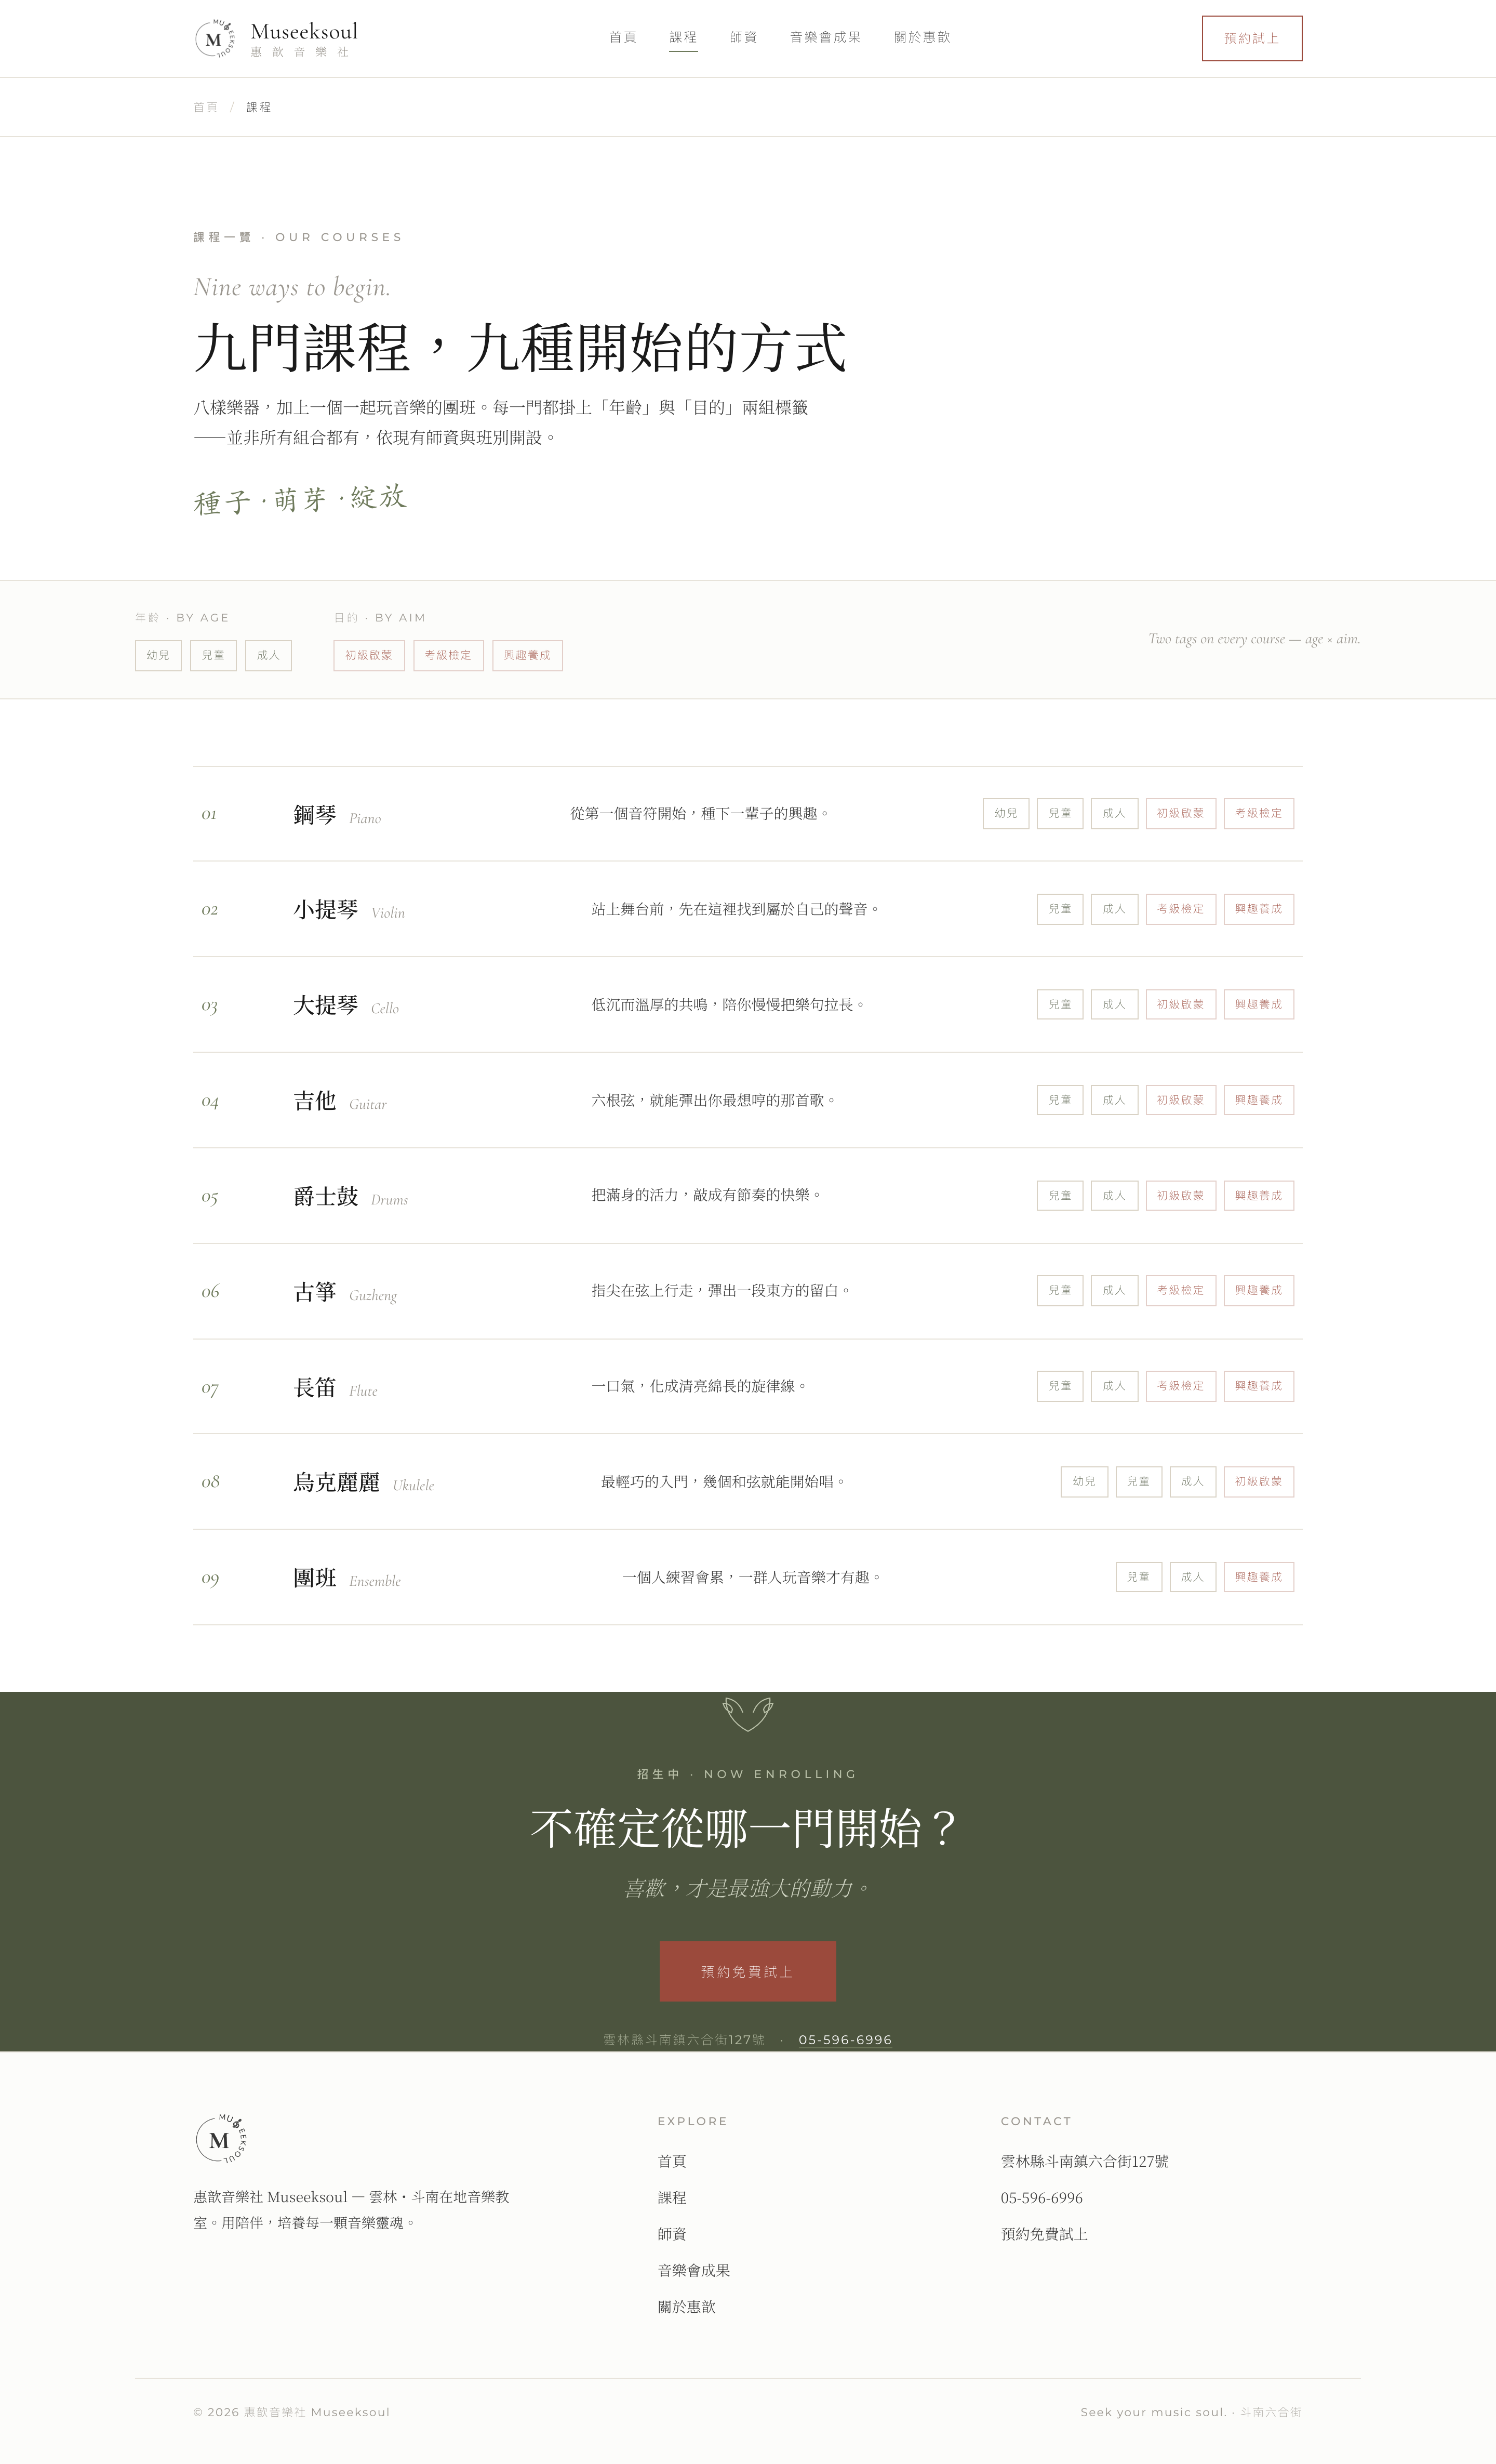
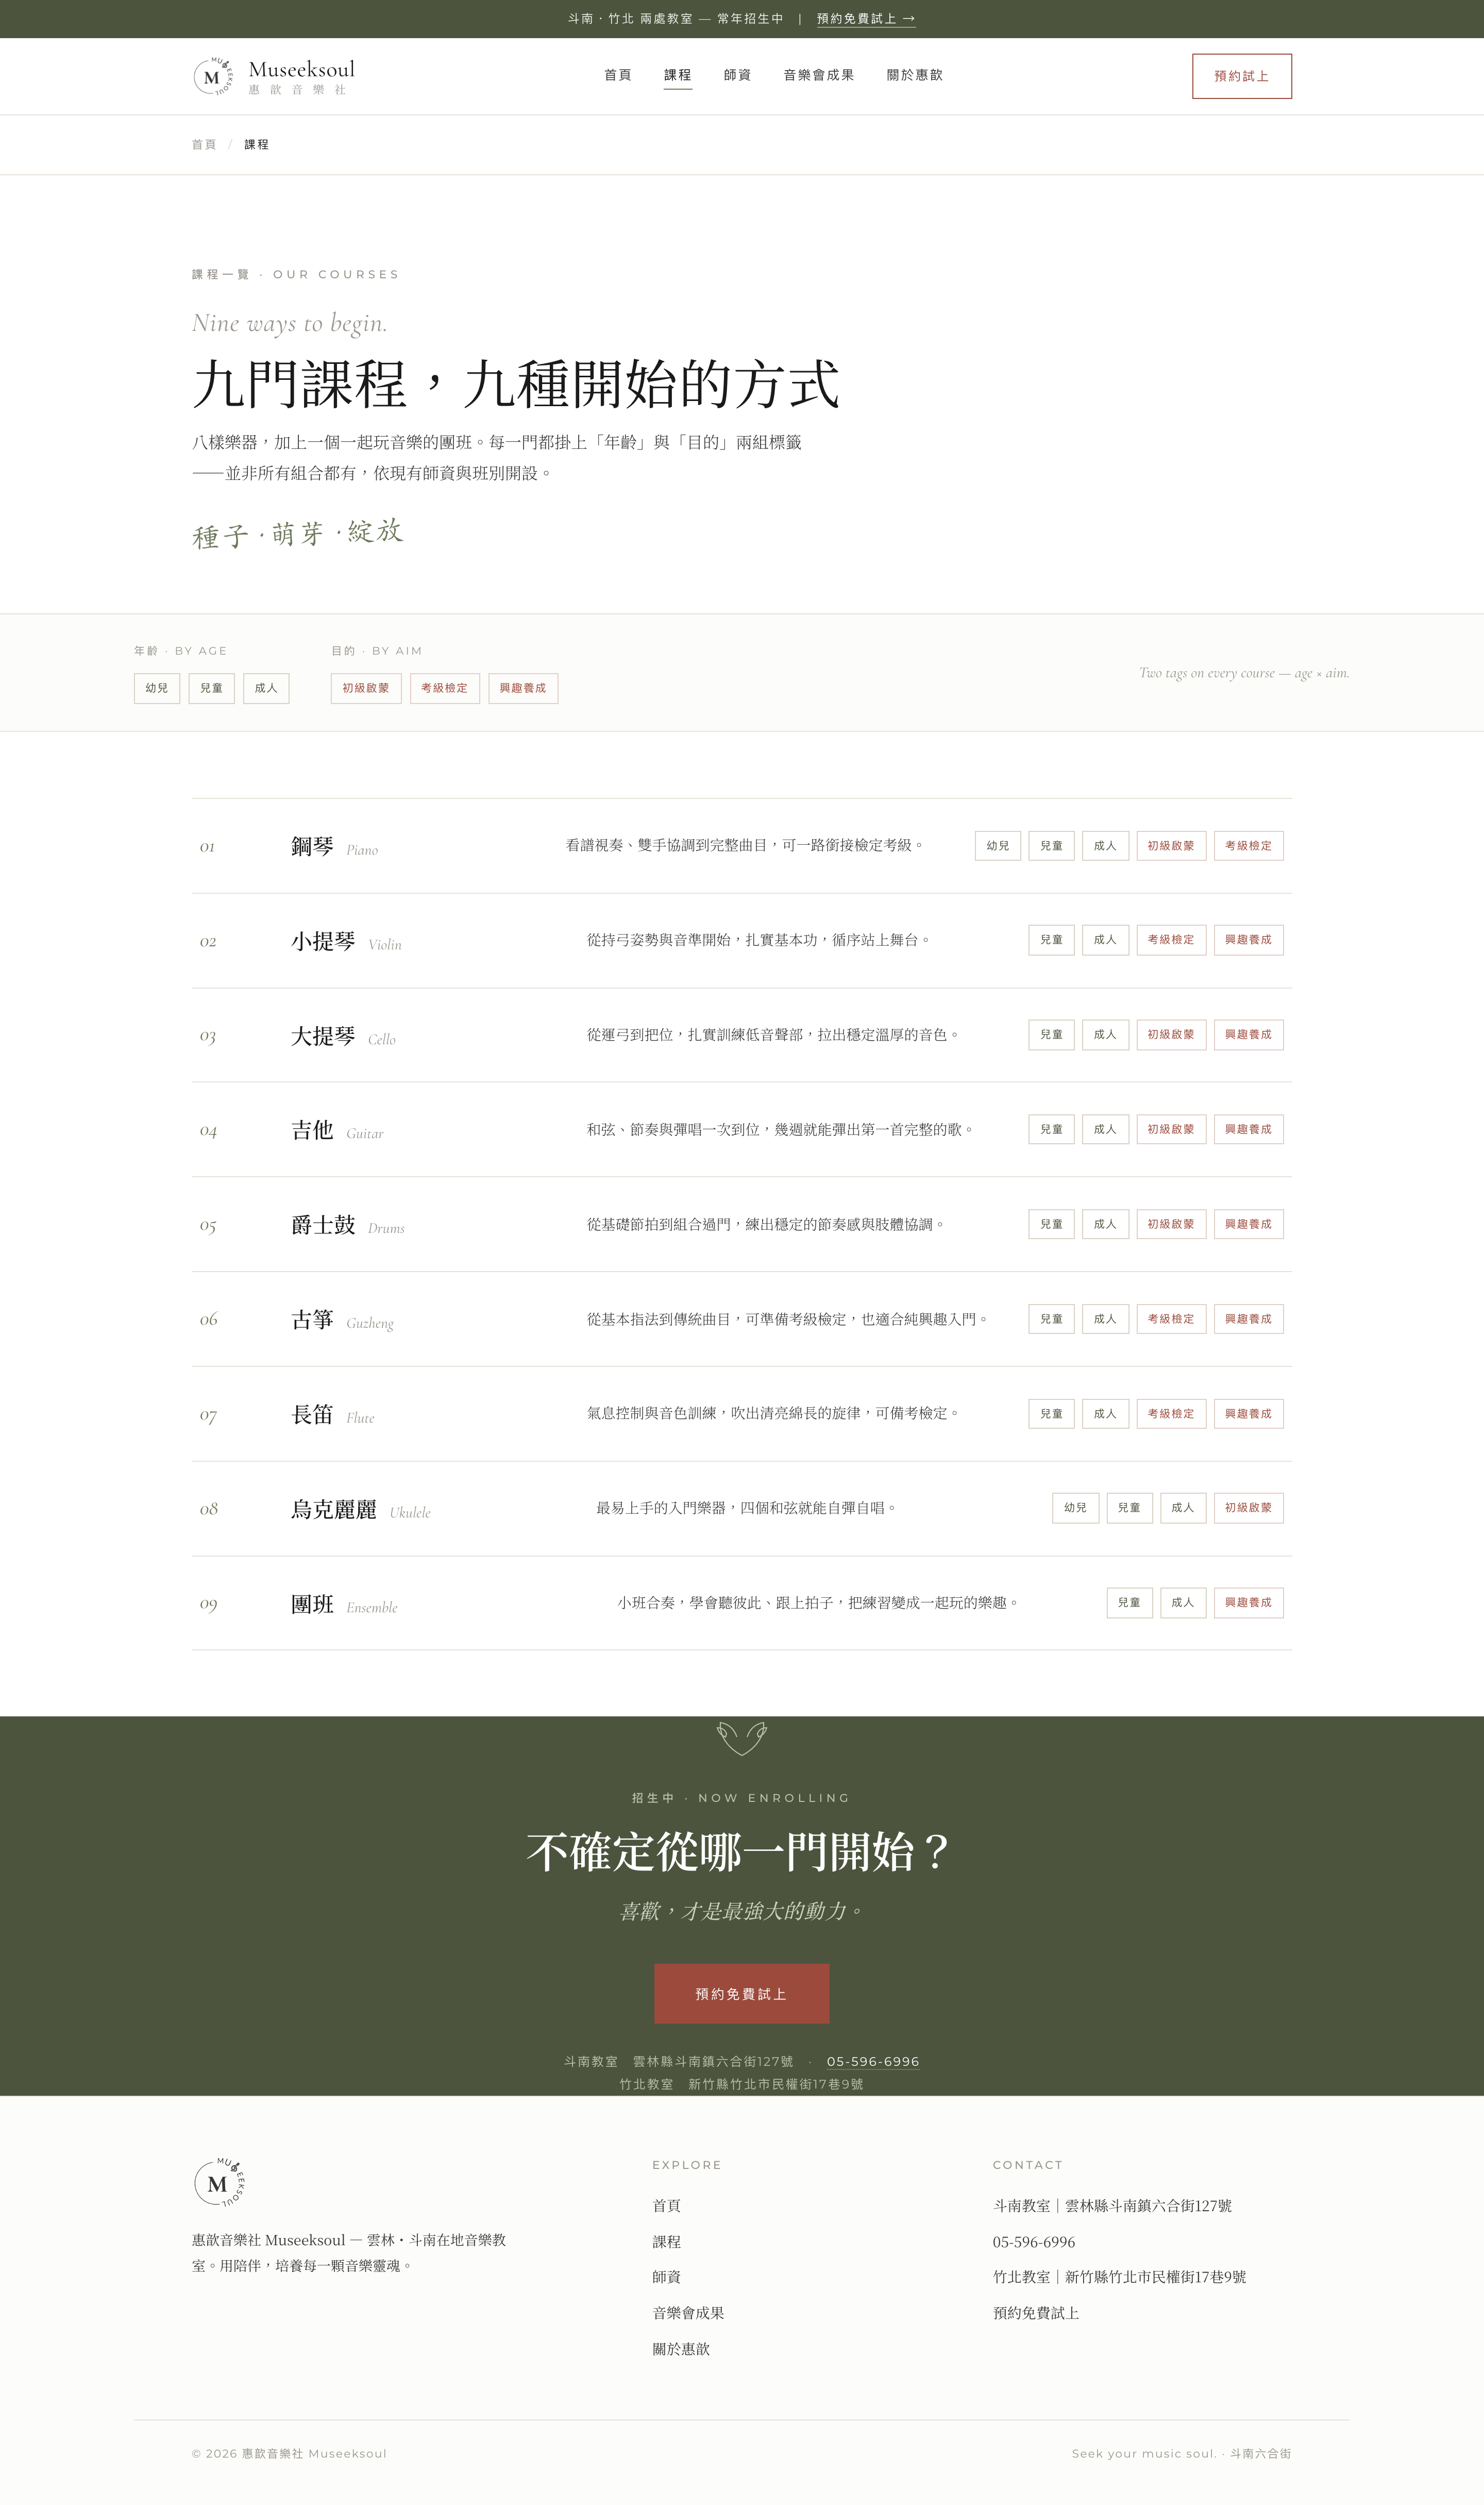
POC 商業強化樣板：image 概念頁套上招生條/賣點行/能力導向文案/兩處教室/字重（保留情感 hero 與信任帶）

diff --git a/concepts/image/courses.html b/concepts/image/courses.html
@@ -31,7 +31,7 @@
     color:var(--body);
     background:var(--white);
     line-height:1.85;
-    font-weight:300;
+    font-weight:400;
     -webkit-font-smoothing:antialiased;
   }
   img{display:block;max-width:100%;}
@@ -46,8 +46,17 @@
     color:var(--grey);
     font-weight:500;
   }
-  h1,h2,h3{font-weight:400;color:var(--ink);line-height:1.18;}
+  h1,h2,h3{font-weight:600;color:var(--ink);line-height:1.18;}
   .lat{font-family:var(--serif-lat);}
+
+  /* ---------- announce bar (top enrolling strip) ---------- */
+  .announce{
+    background:var(--sage-deep);color:#EDEFE8;
+    text-align:center;font-family:var(--sans);
+    font-size:11.5px;letter-spacing:.14em;padding:8px 20px;
+  }
+  .announce a{color:#fff;border-bottom:1px solid rgba(237,239,232,.5);padding-bottom:1px;transition:.2s;}
+  .announce a:hover{border-bottom-color:#fff;}
 
   /* ---------- top bar ---------- */
   header.nav{
@@ -167,6 +176,9 @@
 </head>
 <body>
 
+<!-- ===== ANNOUNCE BAR ===== -->
+<div class="announce">斗南・竹北 兩處教室 — 常年招生中　|　<a href="#">預約免費試上 →</a></div>
+
 <!-- ===== NAV ===== -->
 <header class="nav">
   <div class="wrap nav-in">
@@ -229,63 +241,63 @@
       <div class="course">
         <div class="idx">01</div>
         <div class="name"><b>鋼琴</b><span class="en">Piano</span></div>
-        <div class="desc">從第一個音符開始，種下一輩子的興趣。</div>
+        <div class="desc">看譜視奏、雙手協調到完整曲目，可一路銜接檢定考級。</div>
         <div class="tags"><span class="tag">幼兒</span><span class="tag">兒童</span><span class="tag">成人</span><span class="tag aim">初級啟蒙</span><span class="tag aim">考級檢定</span></div>
       </div>
 
       <div class="course">
         <div class="idx">02</div>
         <div class="name"><b>小提琴</b><span class="en">Violin</span></div>
-        <div class="desc">站上舞台前，先在這裡找到屬於自己的聲音。</div>
+        <div class="desc">從持弓姿勢與音準開始，扎實基本功，循序站上舞台。</div>
         <div class="tags"><span class="tag">兒童</span><span class="tag">成人</span><span class="tag aim">考級檢定</span><span class="tag aim">興趣養成</span></div>
       </div>
 
       <div class="course">
         <div class="idx">03</div>
         <div class="name"><b>大提琴</b><span class="en">Cello</span></div>
-        <div class="desc">低沉而溫厚的共鳴，陪你慢慢把樂句拉長。</div>
+        <div class="desc">從運弓到把位，扎實訓練低音聲部，拉出穩定溫厚的音色。</div>
         <div class="tags"><span class="tag">兒童</span><span class="tag">成人</span><span class="tag aim">初級啟蒙</span><span class="tag aim">興趣養成</span></div>
       </div>
 
       <div class="course">
         <div class="idx">04</div>
         <div class="name"><b>吉他</b><span class="en">Guitar</span></div>
-        <div class="desc">六根弦，就能彈出你最想哼的那首歌。</div>
+        <div class="desc">和弦、節奏與彈唱一次到位，幾週就能彈出第一首完整的歌。</div>
         <div class="tags"><span class="tag">兒童</span><span class="tag">成人</span><span class="tag aim">初級啟蒙</span><span class="tag aim">興趣養成</span></div>
       </div>
 
       <div class="course">
         <div class="idx">05</div>
         <div class="name"><b>爵士鼓</b><span class="en">Drums</span></div>
-        <div class="desc">把滿身的活力，敲成有節奏的快樂。</div>
+        <div class="desc">從基礎節拍到組合過門，練出穩定的節奏感與肢體協調。</div>
         <div class="tags"><span class="tag">兒童</span><span class="tag">成人</span><span class="tag aim">初級啟蒙</span><span class="tag aim">興趣養成</span></div>
       </div>
 
       <div class="course">
         <div class="idx">06</div>
         <div class="name"><b>古箏</b><span class="en">Guzheng</span></div>
-        <div class="desc">指尖在弦上行走，彈出一段東方的留白。</div>
+        <div class="desc">從基本指法到傳統曲目，可準備考級檢定，也適合純興趣入門。</div>
         <div class="tags"><span class="tag">兒童</span><span class="tag">成人</span><span class="tag aim">考級檢定</span><span class="tag aim">興趣養成</span></div>
       </div>
 
       <div class="course">
         <div class="idx">07</div>
         <div class="name"><b>長笛</b><span class="en">Flute</span></div>
-        <div class="desc">一口氣，化成清亮綿長的旋律線。</div>
+        <div class="desc">氣息控制與音色訓練，吹出清亮綿長的旋律，可備考檢定。</div>
         <div class="tags"><span class="tag">兒童</span><span class="tag">成人</span><span class="tag aim">考級檢定</span><span class="tag aim">興趣養成</span></div>
       </div>
 
       <div class="course">
         <div class="idx">08</div>
         <div class="name"><b>烏克麗麗</b><span class="en">Ukulele</span></div>
-        <div class="desc">最輕巧的入門，幾個和弦就能開始唱。</div>
+        <div class="desc">最易上手的入門樂器，四個和弦就能自彈自唱。</div>
         <div class="tags"><span class="tag">幼兒</span><span class="tag">兒童</span><span class="tag">成人</span><span class="tag aim">初級啟蒙</span></div>
       </div>
 
       <div class="course">
         <div class="idx">09</div>
         <div class="name"><b>團班</b><span class="en">Ensemble</span></div>
-        <div class="desc">一個人練習會累，一群人玩音樂才有趣。</div>
+        <div class="desc">小班合奏，學會聽彼此、跟上拍子，把練習變成一起玩的樂趣。</div>
         <div class="tags"><span class="tag">兒童</span><span class="tag">成人</span><span class="tag aim">興趣養成</span></div>
       </div>
 
@@ -306,7 +318,7 @@
     <h2>不確定從哪一門開始？</h2>
     <p class="sub-lat">喜歡，才是最強大的動力。</p>
     <a class="btn-wine" href="tel:055966996">預約免費試上</a>
-    <p class="meta">雲林縣斗南鎮六合街127號　·　<a href="tel:055966996">05-596-6996</a></p>
+    <p class="meta">斗南教室　雲林縣斗南鎮六合街127號　·　<a href="tel:055966996">05-596-6996</a><br>竹北教室　新竹縣竹北市民權街17巷9號</p>
   </div>
 </section>
 
@@ -327,8 +339,9 @@
     </div>
     <div class="foot-col">
       <h4>Contact</h4>
-      <p>雲林縣斗南鎮六合街127號</p>
+      <p>斗南教室｜雲林縣斗南鎮六合街127號</p>
       <a href="tel:055966996">05-596-6996</a>
+      <p>竹北教室｜新竹縣竹北市民權街17巷9號</p>
       <a href="#">預約免費試上</a>
     </div>
   </div>
@@ -350,6 +363,13 @@
   全站零 emoji、零漸層 blob、零膠囊柔陰影。
   與 natural 的關係：完全沿用同色票/字體/間距/月桂 SVG/招生帶/footer 手法，與 index.html 共用 nav 與 footer，
   視覺語言一致，只把課程清單從首頁區塊升格為獨立頁面。
+
+  商業強化（POC-SPEC A–E）：(A)body 300→400、標題 400→600 提升視覺重心；
+  (C)nav 上方常駐深綠招生條（斗南・竹北 兩處教室 — 常年招生中｜預約免費試上）與 index 一致；
+  (D)九門課 desc 全數換成能力導向逐字版（看譜視奏/扎實基本功/運弓把位/彈唱/節拍過門/指法傳統曲目/氣息音色/四和弦自彈自唱/小班合奏）；
+  (E)enquire 與 footer NAP 補竹北教室（電話未提供留空）。
+  保留：九門雙軸標籤與 legend、breadcrumb/nav current、版面識別/配色/字體/月桂線稿/深綠招生帶、響應式。
+  本頁無情感 hero（page-head 為功能性頁首），故 B 賣點行集中於首頁 hero，不重複置入。
 -->
 </body>
 </html>

diff --git a/concepts/image/index.html b/concepts/image/index.html
@@ -31,7 +31,7 @@
     color:var(--body);
     background:var(--white);
     line-height:1.85;
-    font-weight:300;
+    font-weight:400;
     -webkit-font-smoothing:antialiased;
   }
   img{display:block;max-width:100%;}
@@ -46,8 +46,17 @@
     color:var(--grey);
     font-weight:500;
   }
-  h1,h2,h3{font-weight:400;color:var(--ink);line-height:1.18;}
+  h1,h2,h3{font-weight:600;color:var(--ink);line-height:1.18;}
   .lat{font-family:var(--serif-lat);}
+
+  /* ---------- announce bar (top enrolling strip) ---------- */
+  .announce{
+    background:var(--sage-deep);color:#EDEFE8;
+    text-align:center;font-family:var(--sans);
+    font-size:11.5px;letter-spacing:.14em;padding:8px 20px;
+  }
+  .announce a{color:#fff;border-bottom:1px solid rgba(237,239,232,.5);padding-bottom:1px;transition:.2s;}
+  .announce a:hover{border-bottom-color:#fff;}
 
   /* ---------- top bar ---------- */
   header.nav{
@@ -88,6 +97,11 @@
     font-size:16px;color:var(--body);max-width:30em;margin-bottom:10px;font-weight:300;
   }
   .hero .sub-lat{font-family:var(--serif-lat);font-style:italic;font-size:19px;color:var(--grey);margin-bottom:34px;}
+  .hero-pitch{
+    font-family:var(--serif-tc);font-size:clamp(15px,1.7vw,17px);font-weight:500;
+    color:var(--ink);max-width:30em;margin:8px 0 30px;line-height:1.7;
+    border-left:3px solid var(--sage);padding-left:16px;
+  }
   .hero-actions{display:flex;align-items:center;gap:22px;flex-wrap:wrap;}
   .btn-wine{
     font-family:var(--sans);font-size:12.5px;letter-spacing:.16em;text-transform:uppercase;
@@ -251,6 +265,9 @@
 </head>
 <body>
 
+<!-- ===== ANNOUNCE BAR ===== -->
+<div class="announce">斗南・竹北 兩處教室 — 常年招生中　|　<a href="#">預約免費試上 →</a></div>
+
 <!-- ===== NAV ===== -->
 <header class="nav">
   <div class="wrap nav-in">
@@ -273,10 +290,11 @@
 <section class="hero">
   <div class="wrap hero-grid">
     <div class="hero-copy">
-      <div class="eyebrow">雲林 · 斗南 在地音樂教室</div>
+      <div class="eyebrow">雲林斗南 · 新竹竹北 在地音樂教室</div>
       <h1>在音符間找到自信，<br>在樂音中培養<span class="em">溫度</span>。</h1>
       <p class="sub">惠歆音樂，用陪伴，培養每一顆音樂靈魂。</p>
       <p class="sub-lat">Museeksoul — Seek your music soul.</p>
+      <p class="hero-pitch">8 樣樂器 ＋ 1 團班 · 幼兒啟蒙到考級檢定 · 斗南／竹北兩處教室 · 一對一與小班</p>
       <div class="hero-actions">
         <a class="btn-wine" href="#">預約免費試上</a>
         <a class="link-arrow" href="courses.html">瀏覽九門課程 →</a>
@@ -445,25 +463,25 @@
       <div class="feat-card">
         <div class="idx">01</div>
         <div class="nm"><b>鋼琴</b><span class="en">Piano</span></div>
-        <div class="ds">從第一個音符開始，種下一輩子的興趣。</div>
+        <div class="ds">看譜視奏、雙手協調到完整曲目，可一路銜接檢定考級。</div>
         <div class="feat-tags"><span class="tag">幼兒</span><span class="tag">兒童</span><span class="tag aim">初級啟蒙</span></div>
       </div>
       <div class="feat-card">
         <div class="idx">02</div>
         <div class="nm"><b>小提琴</b><span class="en">Violin</span></div>
-        <div class="ds">站上舞台前，先在這裡找到屬於自己的聲音。</div>
+        <div class="ds">從持弓姿勢與音準開始，扎實基本功，循序站上舞台。</div>
         <div class="feat-tags"><span class="tag">兒童</span><span class="tag">成人</span><span class="tag aim">考級檢定</span></div>
       </div>
       <div class="feat-card">
         <div class="idx">06</div>
         <div class="nm"><b>古箏</b><span class="en">Guzheng</span></div>
-        <div class="ds">指尖在弦上行走，彈出一段東方的留白。</div>
+        <div class="ds">從基本指法到傳統曲目，可準備考級檢定，也適合純興趣入門。</div>
         <div class="feat-tags"><span class="tag">兒童</span><span class="tag">成人</span><span class="tag aim">興趣養成</span></div>
       </div>
       <div class="feat-card">
         <div class="idx">09</div>
         <div class="nm"><b>團班</b><span class="en">Ensemble</span></div>
-        <div class="ds">一個人練習會累，一群人玩音樂才有趣。</div>
+        <div class="ds">小班合奏，學會聽彼此、跟上拍子，把練習變成一起玩的樂趣。</div>
         <div class="feat-tags"><span class="tag">兒童</span><span class="tag">成人</span><span class="tag aim">興趣養成</span></div>
       </div>
     </div>
@@ -503,7 +521,7 @@
     <h2>準備好，種下第一顆音符了嗎？</h2>
     <p class="sub-lat">喜歡，才是最強大的動力。</p>
     <a class="btn-wine" href="tel:055966996">預約免費試上</a>
-    <p class="meta">雲林縣斗南鎮六合街127號　·　<a href="tel:055966996">05-596-6996</a></p>
+    <p class="meta">斗南教室　雲林縣斗南鎮六合街127號　·　<a href="tel:055966996">05-596-6996</a><br>竹北教室　新竹縣竹北市民權街17巷9號</p>
   </div>
 </section>
 
@@ -524,8 +542,9 @@
     </div>
     <div class="foot-col">
       <h4>Contact</h4>
-      <p>雲林縣斗南鎮六合街127號</p>
+      <p>斗南教室｜雲林縣斗南鎮六合街127號</p>
       <a href="tel:055966996">05-596-6996</a>
+      <p>竹北教室｜新竹縣竹北市民權街17巷9號</p>
       <a href="#">預約免費試上</a>
     </div>
   </div>
@@ -548,6 +567,13 @@
   hub 為編號清單而非膠囊卡；全站零 emoji、零漸層、零柔陰影；深鼠尾草綠成果區為唯一深色喘息段。
   與 natural 的關係：完全沿用同色票/字體/間距/月桂線稿/信任帶/深綠成果區/footer 手法，
   視覺語言不變，唯一新變數是把首頁改成形象與動態入口，課程細節外移到 courses.html。
+
+  商業強化（POC-SPEC A–E）：加了五個支撐層——(A)body 300→400、標題 400→600 提升視覺重心；
+  (B)hero 情感標語下、CTA 上加「8 樣樂器＋1 團班…」賣點墊底行（襯線/字重 500/左側 sage 框）；
+  (C)nav 上方常駐深綠招生條「斗南・竹北 兩處教室 — 常年招生中｜預約免費試上」；
+  (D)精選 4 門課文案換成能力導向逐字版（看譜視奏/扎實基本功/考級檢定…）；
+  (E)footer 與 booking NAP 補竹北教室（電話未提供留空）、hero eyebrow 改「雲林斗南・新竹竹北」。
+  保留：hero 情感主標語（一字未動）、數字信任帶 96%/9門/在地/免費、版面識別/配色/字體/月桂線稿/深綠成果段、響應式。
 -->
 </body>
 </html>